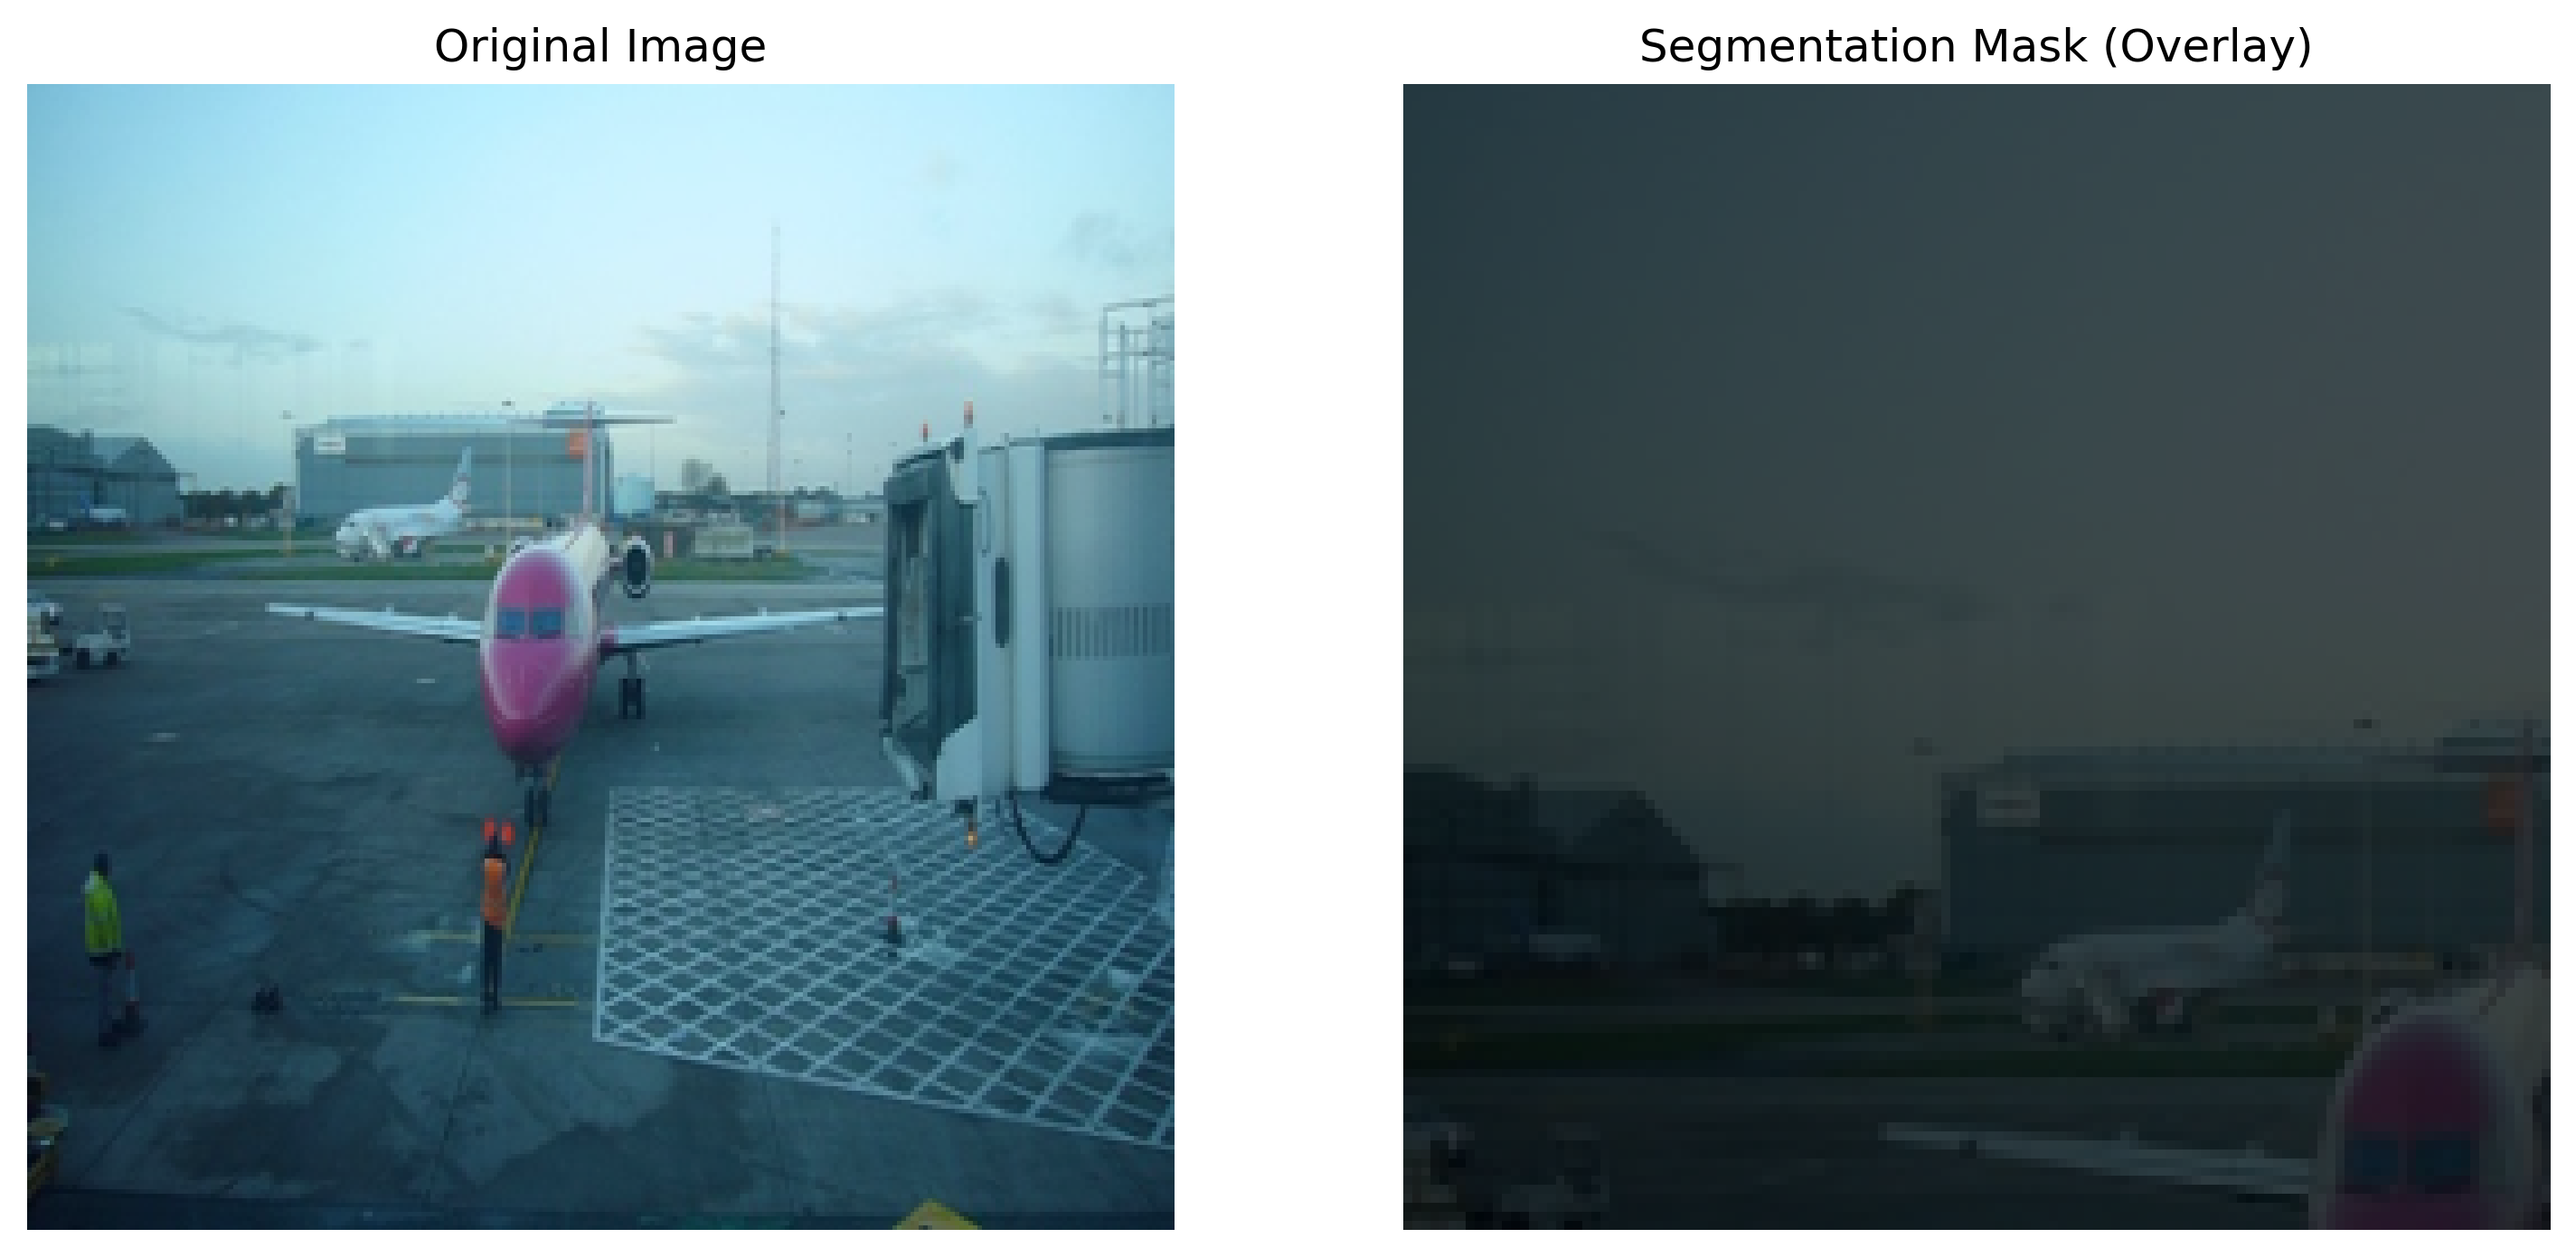
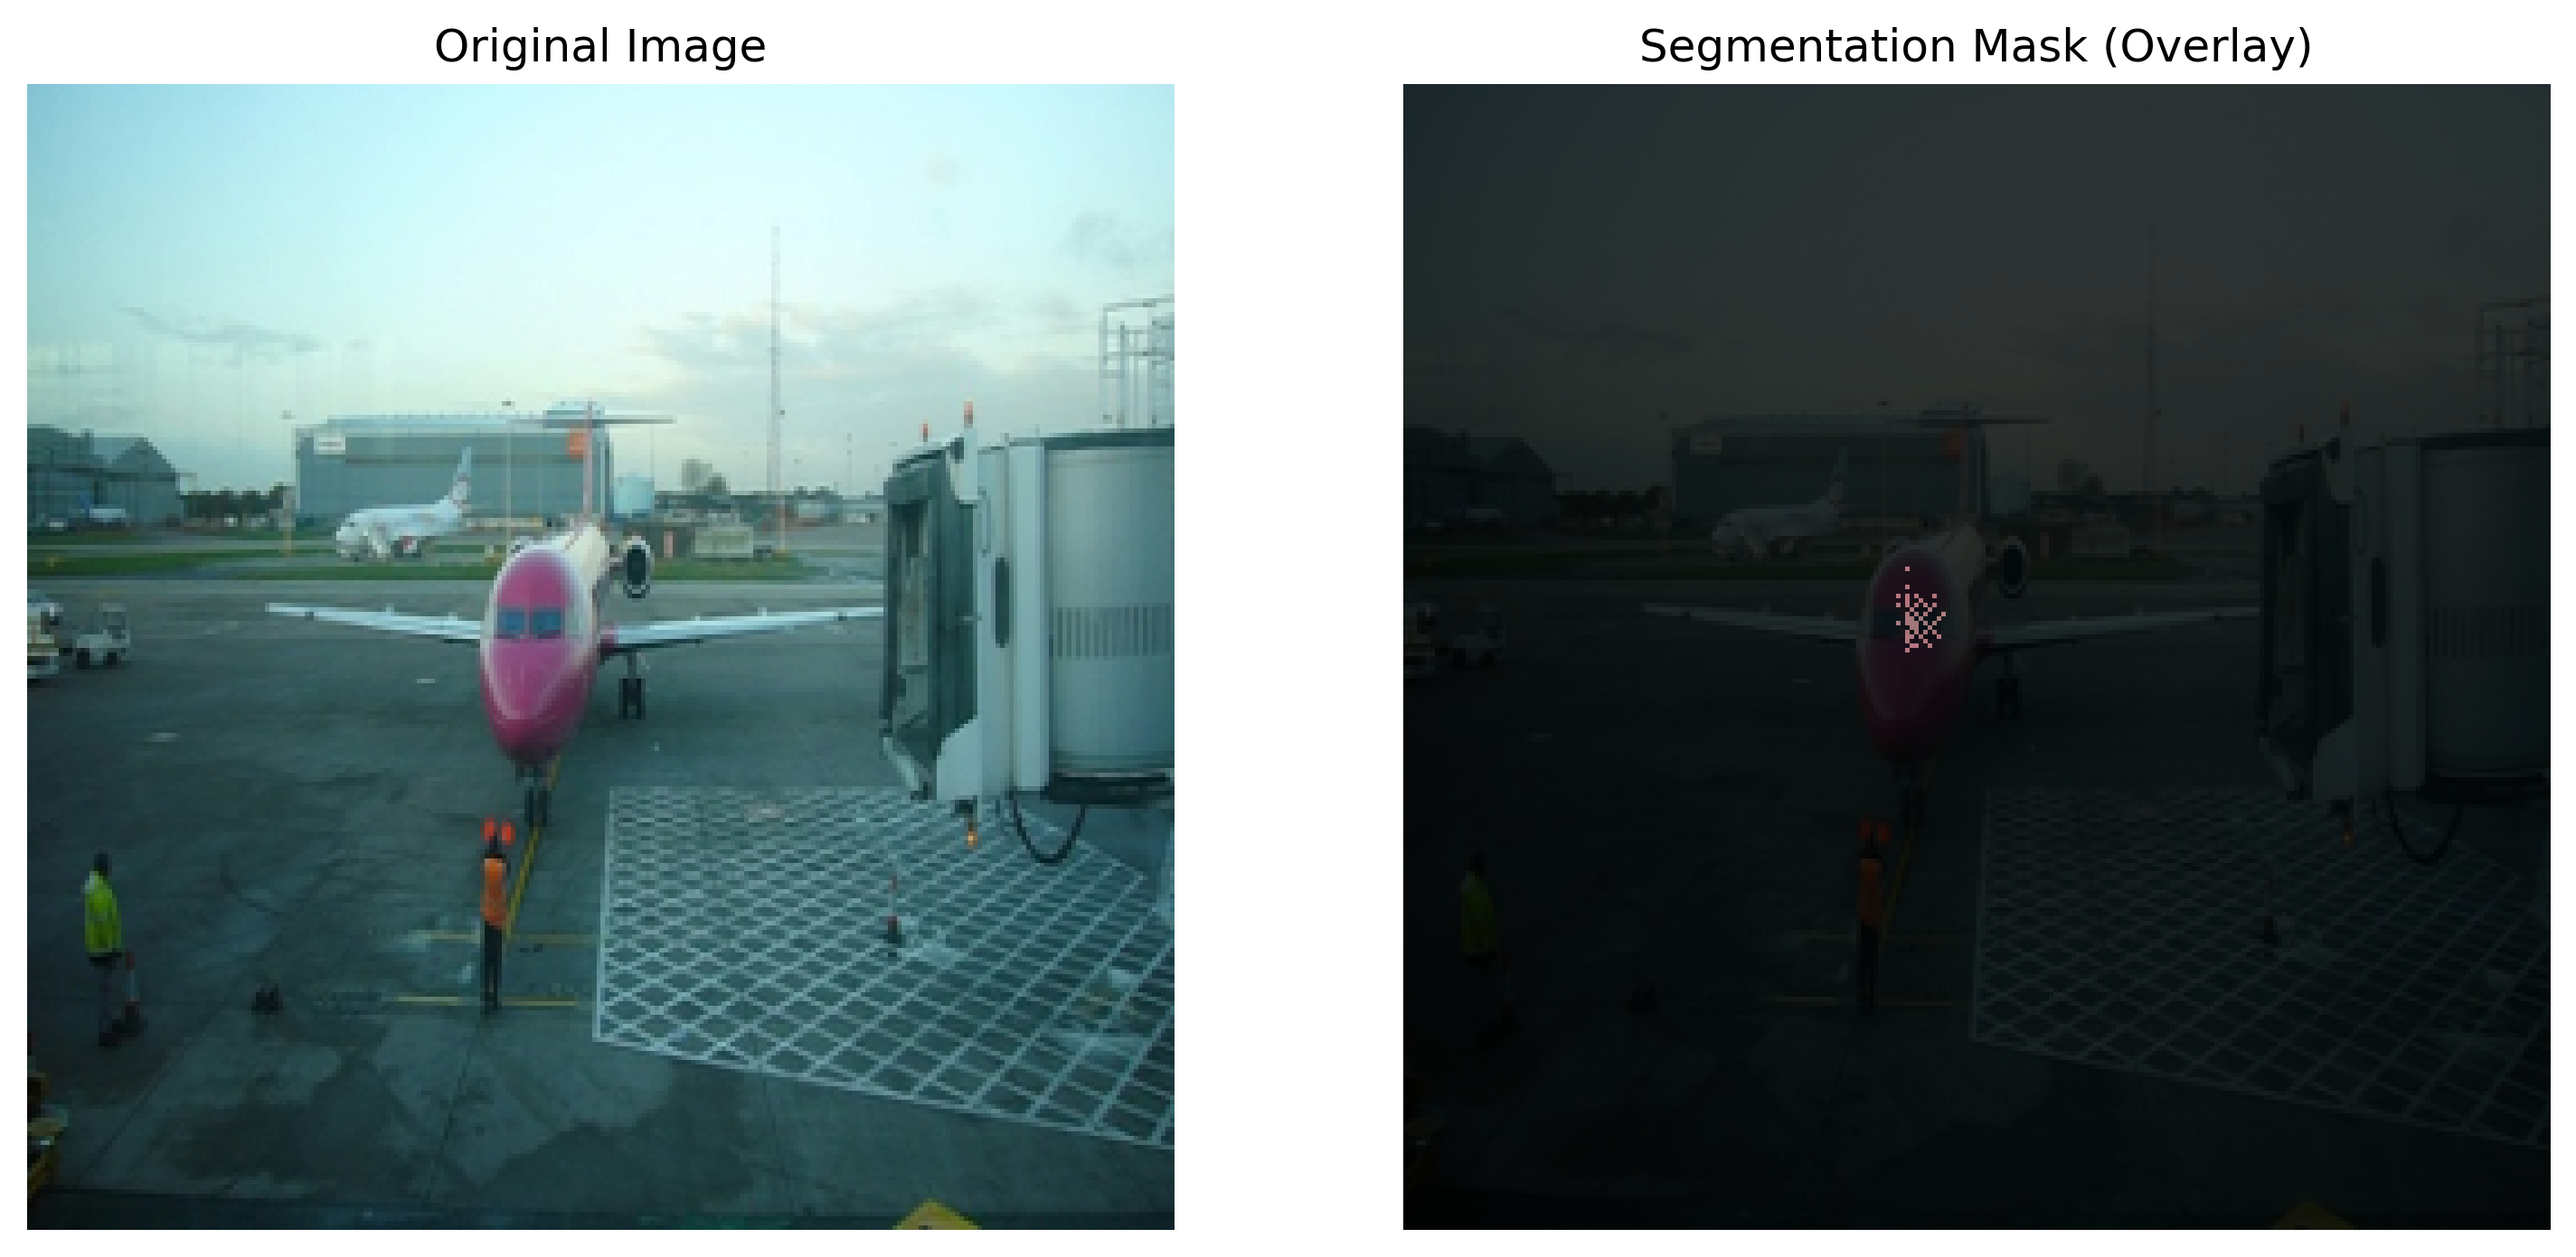
week7 update

diff --git a/week7/my_fcn.py b/week7/my_fcn.py
@@ -1,6 +1,6 @@
 #  -*- utf-8 -*-
 import os.path
-
+import cv2
 from PIL import Image
 import datetime
 import numpy as np
@@ -11,7 +11,31 @@ from torchvision import datasets, transforms, models
 from torch.utils.data import DataLoader, Dataset
 from utlis.globals import Logger, plt_loss_result, get_device, save_model, load_model
 import matplotlib.pyplot as plt
-from typing import Optional
+
+
+VOC_COLORMAP = [
+        [0, 0, 0],  # 0: 背景（黑色）
+        [128, 0, 0],  # 1: aeroplane（红色）
+        [0, 128, 0],  # 2: bicycle（绿色）
+        [128, 128, 0],  # 3: bird（黄绿色）
+        [0, 0, 128],  # 4: boat（蓝色）
+        [128, 0, 128],  # 5: bottle（紫色）
+        [0, 128, 128],  # 6: bus（蓝绿色）
+        [128, 128, 128],  # 7: car（灰色）
+        [64, 0, 0],  # 8: cat（暗红色）
+        [192, 0, 0],  # 9: chair（橙红色）
+        [64, 128, 0],  # 10: cow（黄绿色）
+        [192, 128, 0],  # 11: dining table（橙色）
+        [64, 0, 128],  # 12: dog（紫红色）
+        [192, 0, 128],  # 13: horse（粉紫色）
+        [64, 128, 128],  # 14: motorbike（蓝绿色）
+        [192, 128, 128],  # 15: person（肉色）
+        [0, 64, 0],  # 16: potted plant（深绿色）
+        [128, 64, 0],  # 17: sheep（棕色）
+        [0, 192, 0],  # 18: sofa（亮绿色）
+        [128, 192, 0],  # 19: train（黄绿色）
+        [0, 64, 128]  # 20: tv/monitor（深蓝色）
+    ]
 
 
 class VOCSegmentationDataset(Dataset):
@@ -35,21 +59,35 @@ class VOCSegmentationDataset(Dataset):
             transforms.Normalize(mean=[0.485, 0.456, 0.406], std=[0.229, 0.224, 0.225]),
         ])
 
+    def rgb_to_index(cls, mask_rgb, colormap=VOC_COLORMAP):
+        """ 将RGB Mask转换为类别索引 """
+        index_mask = np.zeros((mask_rgb.shape[0], mask_rgb.shape[1]), dtype=np.int64)
+        for i, color in enumerate(colormap):
+            index_mask[(mask_rgb == color).all(axis=-1)] = i
+        return index_mask
+
     def __len__(self):
         return len(self.images)
 
     def __getitem__(self, idx):
         image = Image.open(self.images[idx]).convert('RGB')
-        mask = Image.open(self.masks[idx]).convert('L')
+        # mask = Image.open(self.masks[idx]).convert('L')
 
         image = image.resize((256, 256), Image.BILINEAR)
-        mask = mask.resize((256, 256), Image.NEAREST)
+        # mask = mask.resize((256, 256), Image.NEAREST)
+
+        mask_rgb = Image.open(self.masks[idx]).convert('RGB')  # 保持RGB
+        mask_rgb = mask_rgb.resize((256, 256), Image.NEAREST)
+        mask_rgb = np.array(mask_rgb)  # (H, W, 3)
+        mask = self.rgb_to_index(mask_rgb)  # (H, W), 值范围0~20
 
         if self.transform:
             image = self.transform(image)
             mask = np.array(mask, dtype=np.int64)
 
-            mask[mask > 20] = 255
+            # mask[mask > 20] = 255
+            # mask[(mask > 20) & (mask != 255)] = 0
+            mask[mask == 255] = 0
             mask = torch.from_numpy(mask)
 
         return image, mask
@@ -76,15 +114,23 @@ class FCN(nn.Module):
 
         resnet = models.resnet34(pretrained=True)
         self.encoder = nn.Sequential(*list(resnet.children())[:-2])
+
+        # 调整解码器输入通道数（ResNet34的layer4输出512通道）
         self.decoder = nn.Sequential(
-            nn.ConvTranspose2d(512, 256, kernel_size=4, stride=2, padding=1),
-            nn.ReLU(inplace=True),
-            nn.ConvTranspose2d(256, 128, kernel_size=4, stride=2, padding=1),
-            nn.ReLU(inplace=True),
-            nn.ConvTranspose2d(128, 64, kernel_size=4, stride=2, padding=1),
-            nn.ReLU(inplace=True),
-            nn.ConvTranspose2d(64, num_class, kernel_size=4, stride=2, padding=1),
+            nn.ConvTranspose2d(512, 256, kernel_size=4, stride=2, padding=1),  # 8x8 → 16x16
+            nn.ReLU(),
+            nn.ConvTranspose2d(256, 128, 4, 2, 1),  # 16x16 → 32x32
+            nn.ReLU(),
+            nn.ConvTranspose2d(128, 64, 4, 2, 1),  # 32x32 → 64x64
+            nn.ReLU(),
+            nn.ConvTranspose2d(64, 32, 4, 2, 1),  # 64x64 → 128x128
+            nn.ReLU(),
+            nn.ConvTranspose2d(32, num_class, 4, 2, 1),  # 128x128 → 256x256
         )
+        # 新增：强制上采样到输入尺寸
+        # self.final_upsample = nn.Upsample(
+        #     size=(256, 256), mode='bilinear', align_corners=False
+        # )
         self.init_criterion()
         self.init_optimizer()
 
@@ -94,9 +140,9 @@ class FCN(nn.Module):
 
     def init_optimizer(self):
         if self.opt == 'SGD':
-            self.optimizer = optim.SGD(self.parameters(), lr=self.lr)
+            self.optimizer = optim.SGD(self.parameters(), lr=self.lr, weight_decay=1e-4)
         if self.opt == 'Adam':
-            self.optimizer = optim.Adam(self.parameters(), lr=self.lr)
+            self.optimizer = optim.Adam(self.parameters(), lr=self.lr, weight_decay=1e-4)
         self.optimizer.zero_grad()
         return True
 
@@ -148,7 +194,7 @@ def train_model(model, device, data_loader, epoch, logger=None):
         # 4步
         y = model.forward(images)
         # align_corners	是否对齐角点
-        y = nn.functional.interpolate(y, size=masks.shape[1:], mode='bilinear', align_corners=True)
+        # y = nn.functional.interpolate(y, size=masks.shape[1:], mode='bilinear', align_corners=False)
         model.calc_loss(y, masks, save_loss=True)
         model.backward()
         model.update_params()
@@ -176,7 +222,7 @@ def run():
     num_class = 21
     first_clear_log = True
 
-    name_ = f'{model_name}_{opt}_{lr}_{batch_size}_o1'
+    name_ = f'{model_name}_{opt}_{lr}_{batch_size}_o3'
     loger = Logger(path='results', filename=name_)
     train_loss_ls = []
 
@@ -209,14 +255,47 @@ def run():
     return True
 
 
-def visualize_fcn_prediction(
-        model,
-        pic_name,
-        image_tensor,
-        alpha=0.5,
-        show_original=True,
-        overlay=True,
-) -> None:
+def test_run():
+    model = FCN(num_class=21)
+    x = torch.randn(1, 3, 256, 256)
+    out = model(x)
+    print(out.shape, out.min(), out.max())
+
+
+def visualize_logits_together(logits, save_path=None):
+    """
+    将所有 logits 通道叠加在同一个图中显示
+    logits: (1, C, H, W) 的张量
+    save_path: 保存路径
+    """
+    logits = logits.squeeze(0).cpu().numpy()  # (C, H, W)
+    num_classes = logits.shape[0]
+
+    plt.figure(figsize=(10, 8))
+    plt.imshow(np.zeros_like(logits[0]), cmap='gray')  # 背景（全黑）
+
+    # 为每个类别分配不同的颜色（使用 matplotlib 默认颜色循环）
+    colors = plt.cm.get_cmap('hsv', num_classes)  # 或者 'viridis', 'jet' 等
+
+    for i in range(num_classes):
+        plt.imshow(
+            logits[i],
+            alpha=0.5,  # 透明度控制
+            cmap=colors,
+            vmin=logits.min(),
+            vmax=logits.max(),
+        )
+
+    plt.colorbar(label='Logits Value')
+    plt.title("All Logits Channels Overlay")
+    plt.axis('off')
+
+    if save_path:
+        plt.savefig(save_path, bbox_inches='tight', dpi=300)
+    plt.close()
+
+
+def visualize_fcn_prediction(model, pic_name, image_tensor, alpha=0.5, show_original=True, overlay=True,):
     """
     可视化 FCN 的预测结果（支持21类标准VOC配色）
     model: FCN 模型
@@ -230,39 +309,30 @@ def visualize_fcn_prediction(
     save_path = f'results/fcn_seg_{name}.png'
     figsize = (12, 6)
 
+    # orig_h, orig_w = image_tensor.shape[-2:]
+
     # --- 2. 模型预测 ---
     with torch.no_grad():
         logits = model(image_tensor)  # (1, 21, H, W)
+        # 合理的 Logits 值应在 [-10, 10] 之间
+        print('Logits统计:', logits.min(), logits.max(), logits.mean())
         pred_mask = torch.argmax(logits, dim=1).squeeze().cpu().numpy()  # (H, W)
+        print('image_tensor', image_tensor.shape)
+        print('pred_mask', pred_mask.shape)
 
-    # --- 3. 预处理图像 ---
-    image = image_tensor.squeeze().permute(1, 2, 0).cpu().numpy()
-    image = (image - image.min()) / (image.max() - image.min())  # 归一化到[0,1]
+    visualize_logits_together(logits, save_path=f'results/fcn_logits_{name}.png')
+    # if pred_mask.shape != (orig_h, orig_w):
+    #     pred_mask = cv2.resize(pred_mask, (orig_w, orig_h), interpolation=cv2.INTER_NEAREST)
+    #
 
-    # --- 4. VOC标准21类颜色映射 ---
-    voc_colormap = np.array([
-        [0, 0, 0],  # 0: 背景（黑色）
-        [128, 0, 0],  # 1: aeroplane（红色）
-        [0, 128, 0],  # 2: bicycle（绿色）
-        [128, 128, 0],  # 3: bird（黄绿色）
-        [0, 0, 128],  # 4: boat（蓝色）
-        [128, 0, 128],  # 5: bottle（紫色）
-        [0, 128, 128],  # 6: bus（蓝绿色）
-        [128, 128, 128],  # 7: car（灰色）
-        [64, 0, 0],  # 8: cat（暗红色）
-        [192, 0, 0],  # 9: chair（橙红色）
-        [64, 128, 0],  # 10: cow（黄绿色）
-        [192, 128, 0],  # 11: dining table（橙色）
-        [64, 0, 128],  # 12: dog（紫红色）
-        [192, 0, 128],  # 13: horse（粉紫色）
-        [64, 128, 128],  # 14: motorbike（蓝绿色）
-        [192, 128, 128],  # 15: person（肉色）
-        [0, 64, 0],  # 16: potted plant（深绿色）
-        [128, 64, 0],  # 17: sheep（棕色）
-        [0, 192, 0],  # 18: sofa（亮绿色）
-        [128, 192, 0],  # 19: train（黄绿色）
-        [0, 64, 128]  # 20: tv/monitor（深蓝色）
-    ], dtype=np.uint8)
+    inv_normalize = transforms.Normalize(
+        mean=[-0.485/0.229, -0.456/0.224, -0.406/0.225],
+        std=[1/0.229, 1/0.224, 1/0.225]
+    )
+    display_image = inv_normalize(image_tensor.squeeze()).permute(1, 2, 0).cpu().numpy()
+    display_image = np.clip(display_image, 0, 1)
+
+    voc_colormap = np.array(VOC_COLORMAP, dtype=np.uint8)
 
     # 生成彩色掩码
     pred_mask_color = voc_colormap[pred_mask]  # (H, W, 3)
@@ -272,13 +342,13 @@ def visualize_fcn_prediction(
 
     if show_original:
         plt.subplot(1, 2, 1)
-        plt.imshow(image)
+        plt.imshow(display_image)
         plt.title("Original Image")
         plt.axis('off')
 
     if overlay:
         plt.subplot(1, 2, 2 if show_original else 1)
-        plt.imshow(image)
+        plt.imshow(display_image)
         plt.imshow(pred_mask_color, alpha=alpha)
         plt.title("Segmentation Mask (Overlay)")
     else:
@@ -292,18 +362,19 @@ def visualize_fcn_prediction(
     # plt.show()
     return
 
+
 def test_plt():
     model = FCN(num_class=21)
-    model.load_state_dict(torch.load('results/fcn_Adam_0.0001_8_o1.pth', map_location='mps'))
+    model.load_state_dict(torch.load('results/fcn_Adam_0.0001_8_o3.pth', map_location='mps'))
     model.to('mps')
     model.eval()  # 如果是推理阶段，设置为eval模式
 
-    pics = ['000032.jpg', '000363.jpg']
+    pics = ['000032.jpg', '000033.jpg']
     path = '../data/VOCdevkit/VOC2007/JPEGImages'
     transform = transforms.Compose([
-        transforms.ToTensor(),
-        transforms.Normalize(mean=[0.485, 0.456, 0.406], std=[0.229, 0.224, 0.225]),  # ImageNet 归一化
-    ])
+            transforms.ToTensor(),
+            transforms.Normalize(mean=[0.485, 0.456, 0.406], std=[0.229, 0.224, 0.225]),
+        ])
     for pic in pics:
         image = Image.open(f'{path}/{pic}').convert('RGB')
         image = image.resize((256, 256), Image.BILINEAR)
@@ -314,9 +385,10 @@ def test_plt():
             pic_name=pic,
             image_tensor=image_tensor,
             overlay=True,
-            alpha=0.7
+            alpha=0.8
         )
 
 if __name__ == '__main__':
+    # test_run()
     # run()
     test_plt()

diff --git a/week7/test.py b/week7/test.py
@@ -38,9 +38,72 @@ if __name__ == '__main__':
 101.0352,
 100.5069,
 100.6232,
-100.5040,]
+100.5040,
+100.3800,
+100.3279,
+100.4108,
+100.2483,
+100.3601,
+100.3419,
+100.2360,
+100.3723,
+100.2025,
+100.1943,
+100.1051,
+100.5242,
+100.1378,
+100.1096,
+100.1393,
+100.0091,
+100.1572,
+100.1239,
+100.1753,
+100.2238,
+100.0133,
+100.1203,
+100.2546,
+100.1144,
+100.0797,
+99.9197,
+99.9652,
+99.8277,
+99.6962,
+99.8943,
+99.8772,
+99.5958,
+99.4721,
+99.2469,
+99.3718,
+99.3060,
+99.3488,
+99.3786,
+99.4244,
+99.0305,
+99.0579,
+98.9369,
+98.8001,
+98.5270,
+98.6677,
+98.2115,
+98.4616,
+98.0832,
+98.1134,
+98.3375,
+97.8939,
+97.9839,
+97.9408,
+98.9847,
+98.1268,
+97.7469,
+97.3120,
+97.2056,
+97.2112,
+97.2365,
+96.8576,
+96.7928,
+]
     from utlis.globals import plt_loss_result
     plt_loss_result(ls, path='results', name='yolo_v1_SGD_1e-06_16_o1_half', logger=None)
-    plt_loss_result(ls, path='results', name='fcn_Adam_0.0001_8_o1', logger=None)
+    # plt_loss_result(ls, path='results', name='fcn_Adam_0.0001_8_o1', logger=None)
     pass
 
